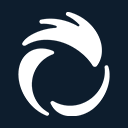
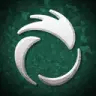
📦 NEW: Added missing emblems and added a second build example.

diff --git a/components/TFT/Builds.vue b/components/TFT/Builds.vue
@@ -2,6 +2,7 @@
   <TFTDropdown
     v-for="buildsGuide in buildsGuidesDB"
     :description="buildsGuide.team"
+    :leftIcons="buildsGuide.icons"
     :key="buildsGuide.id"
     :id="buildsGuide.id"
     :itemLocked="buildsGuide.locked"
@@ -37,12 +38,8 @@
           </div>
         </div>
       </div>
-      <h1 class="text-xl">Fast 8</h1>
-      <p>
-        The goal is to reach level 8 early in Stage 4 to find 4 and 5 cost units
-        before your opponents. You generally need long win or losestreaks to
-        have enough gold for it.
-      </p>
+      <h1 class="text-xl">{{ buildsGuide.strategy.title }}</h1>
+      <p>{{ buildsGuide.strategy.description }}</p>
     </div>
   </TFTDropdown>
 </template>
@@ -61,10 +58,15 @@ interface Carries {
 
 interface BuildsGuide {
   id: number;
+  icons: string[];
   team: string;
   image: string;
   locked: boolean;
   carries: Carries[];
+  strategy: {
+    title: string;
+    description: string;
+  };
 }
 
 /** Props **/

diff --git a/components/TFT/Dropdown.vue b/components/TFT/Dropdown.vue
@@ -13,8 +13,15 @@
         }`"
         @click="toggleShowMore()"
       >
-        <strong>
+        <strong class="flex gap-2 items-center">
           {{ title }}
+          <div v-if="leftIcons?.length" class="flex gap-1">
+            <img
+              v-for="leftIcon in leftIcons"
+              :src="`items/${leftIcon}.png`"
+              class="w-[24px] h-[24px]"
+            />
+          </div>
           <el-tag effect="dark" v-if="description">
             {{ description }}
           </el-tag>
@@ -61,6 +68,9 @@ const props = defineProps({
   itemLocked: {
     type: Boolean,
     default: false,
+  },
+  leftIcons: {
+    type: Array,
   },
 });
 
